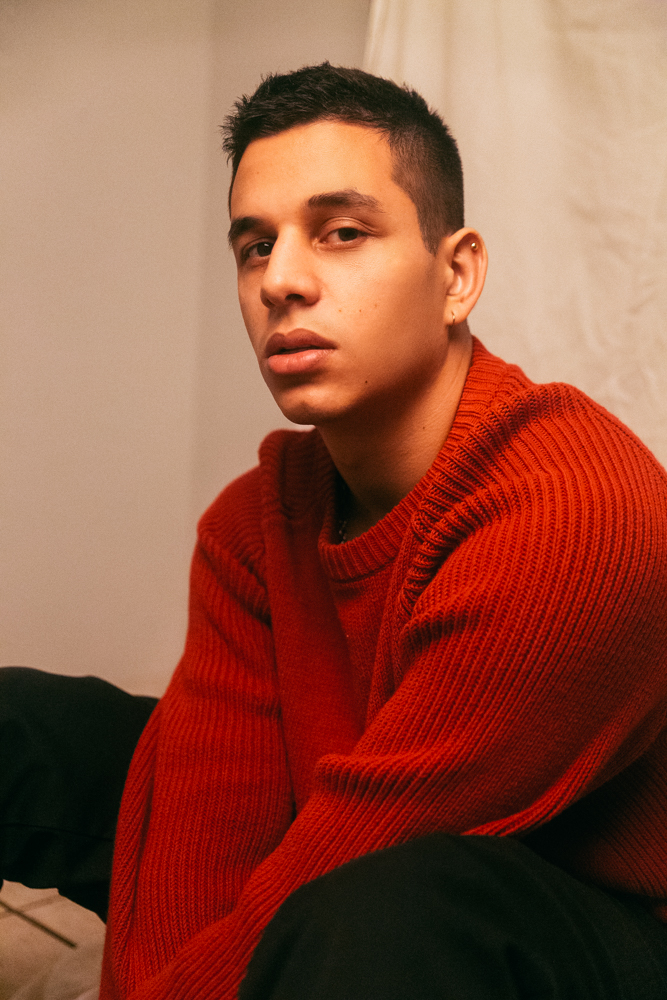
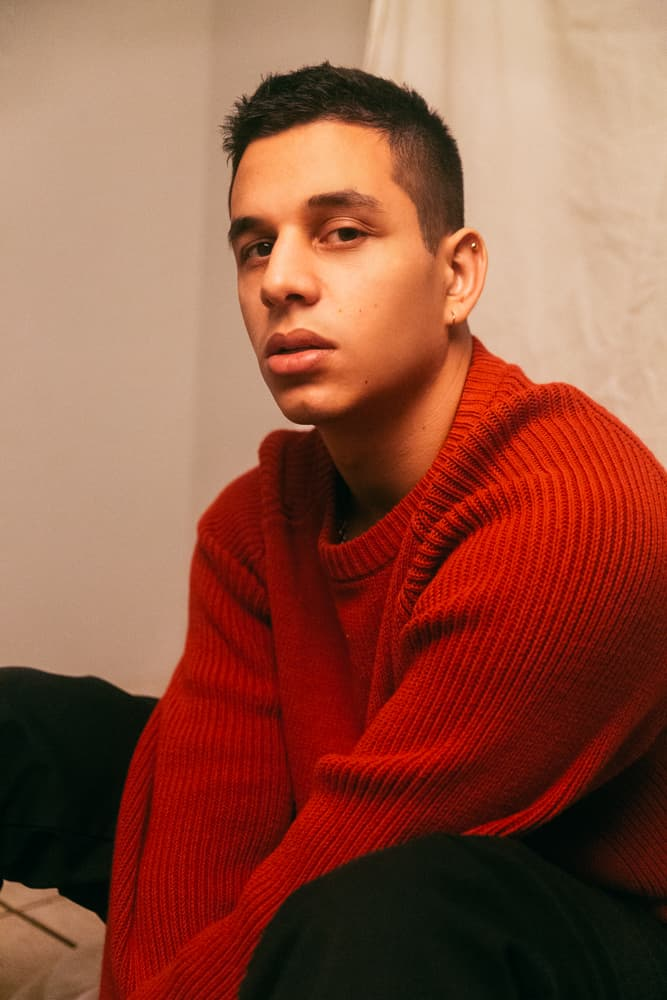
compress imgs

diff --git a/public/css/styles.css b/public/css/styles.css
@@ -63,7 +63,7 @@ download: mp3,spotifycover
 }
 
 #hero {
-    background-image: url('/images/KASO_FOTOS_01-01061.jpg');
+    background-image: url('/images/KASO_FOTOS_01-01062.jpg');
     background-size: cover;
     background-position: center;
     height: 100vh;
